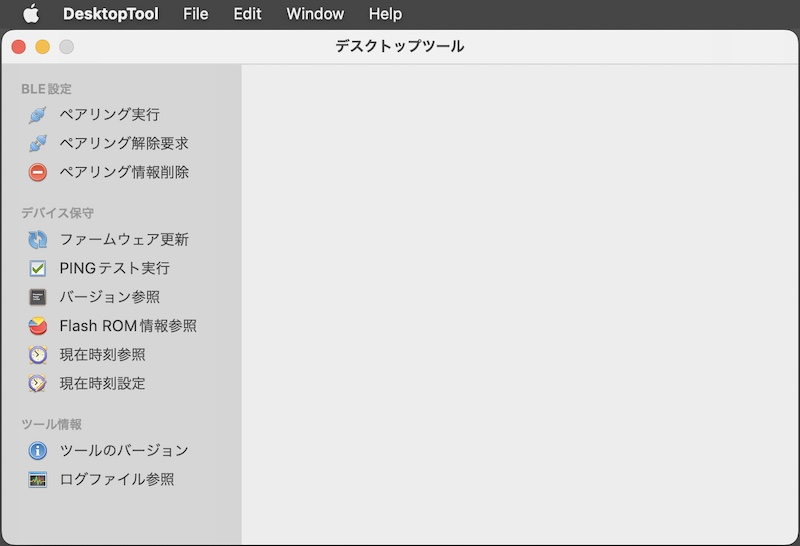
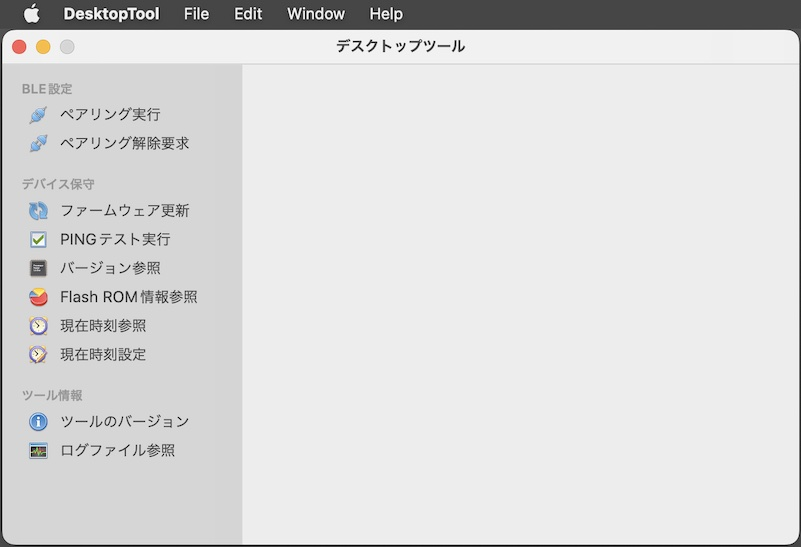
ドキュメントを更新
・不要機能に関する記述を削除

diff --git a/Markdowns/DesktopTools/macOSApp/README.md b/Markdowns/DesktopTools/macOSApp/README.md
@@ -1,6 +1,6 @@
 # macOS版 デスクトップツール
 
-最終更新日：2024/2/29
+最終更新日：2024/3/29
 
 ## 概要
 PC環境から、nRF5340基板の動作に必要な各種設定／動作テスト等を行うためのツールです。
@@ -13,7 +13,6 @@ macOS Monterey (Version 12)〜 <br>
 
 * ペアリング実行
 * ペアリング解除要求
-* ペアリング情報削除
 * ファームウェア更新
 * PINGテスト実行
 * バージョン参照
